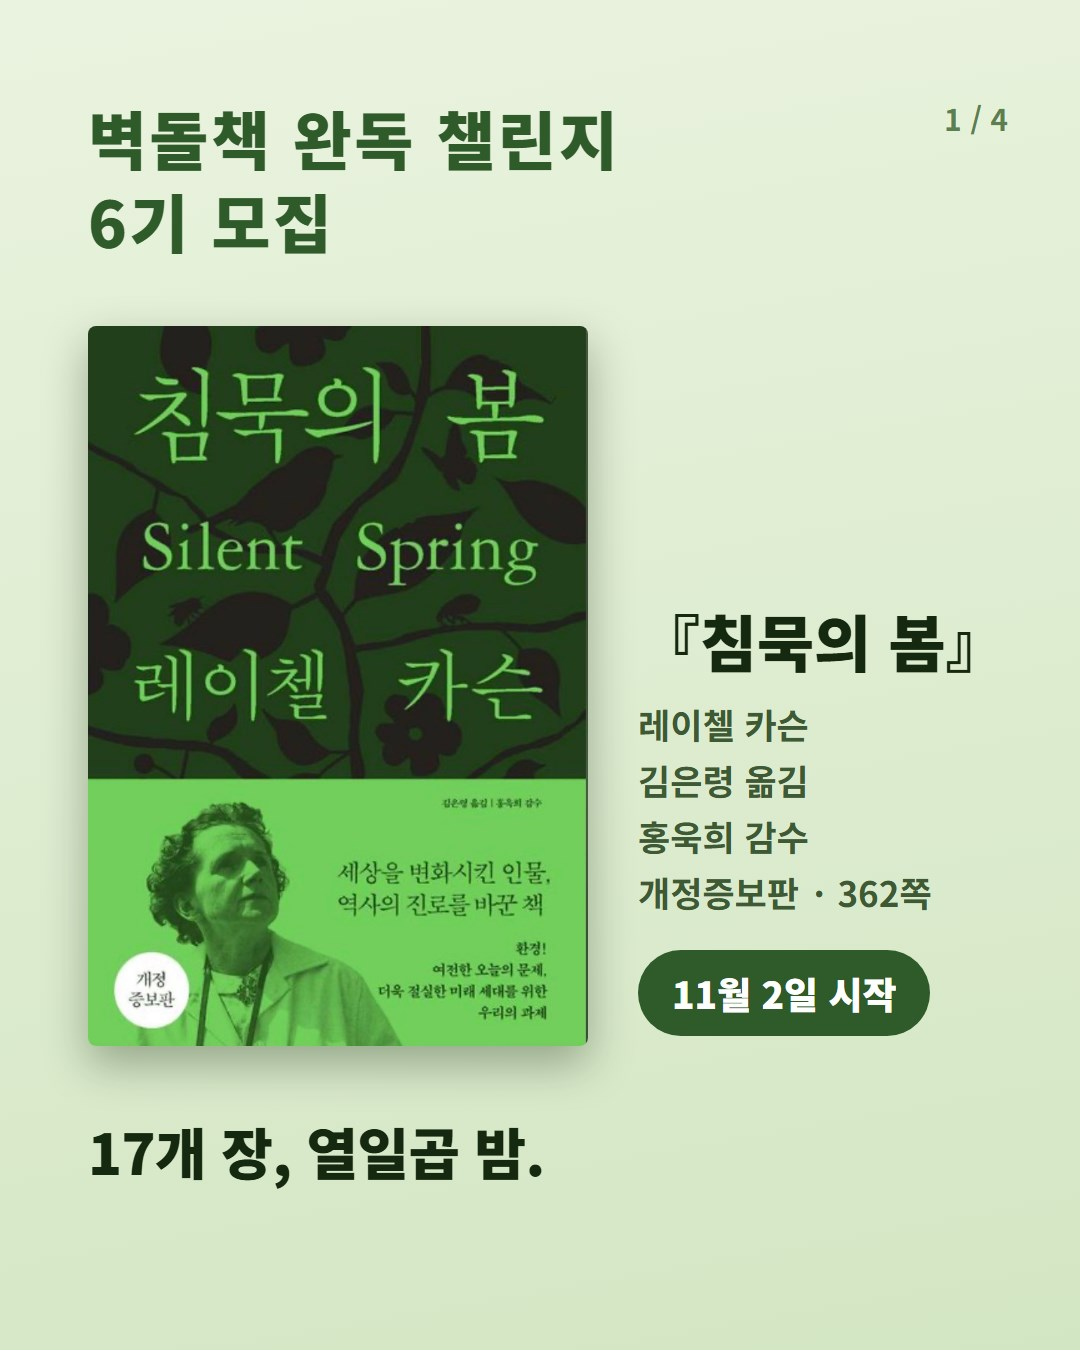
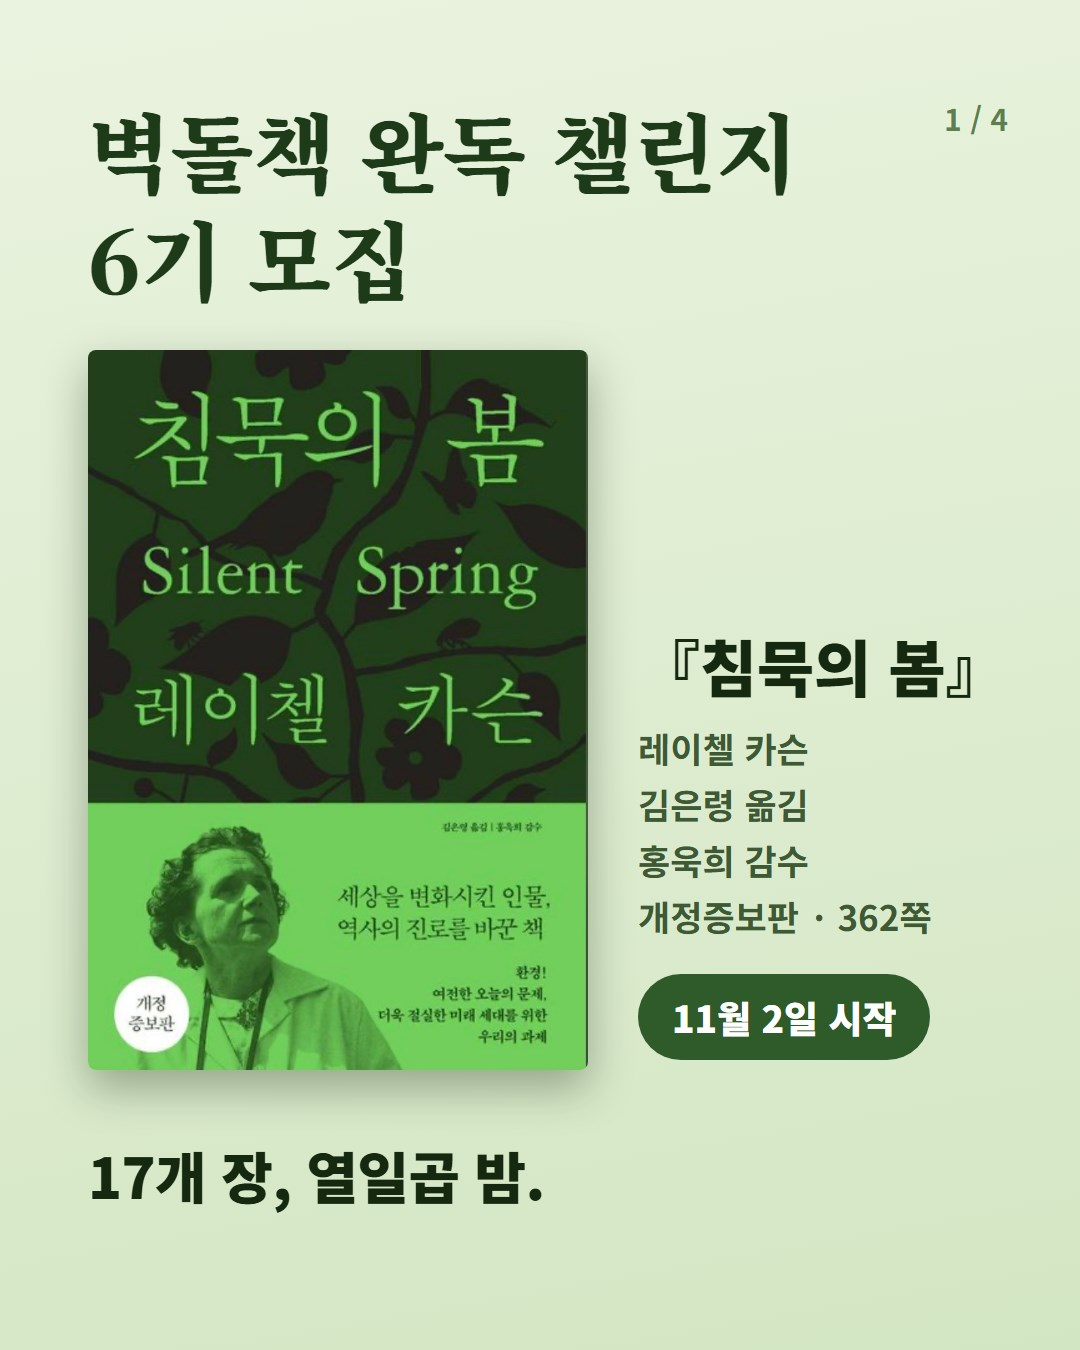
silent-spring — 맨 아래 단추를 6기 구글 신청서로 · 미리보기 카드 갈아 끼움

Changed region(s): [[0.0611, 0.0622, 0.7333, 0.8089], [0.5806, 0.4356, 0.9167, 0.8089], [0.0917, 0.84, 0.4889, 0.9022]]

diff --git a/silent-spring/index.html b/silent-spring/index.html
@@ -193,7 +193,7 @@ table.pay tr.top td{background:#fbf3e2;}
 <tr><th>정원</th><td><b>8명</b></td></tr>
 <tr><th>참가비</th><td><b>무료</b> &nbsp;·&nbsp; <b>책은 본인 부담</b></td></tr>
 <tr><th>함께 읽는 법</th><td><b>장마다 본문 발췌 + 생각 쓰기</b> → 단톡방에 올리기<br><span class="note" style="margin:0;">생각을 못 붙인 날은 발췌만 올려도 그 장은 읽은 것으로 봅니다</span></td></tr>
-<tr><th>신청 방법</th><td><b>인스타그램 DM</b>(@daily_writing_365) 또는 <b>네이버 블로그 댓글</b></td></tr>
+<tr><th>신청 방법</th><td><b>아래 「신청서 작성하기」 단추</b>를 누르면 신청서가 열립니다<br><span class="note" style="margin:0;">인스타그램 DM(@daily_writing_365)이나 네이버 블로그 댓글로 연락 주셔도 됩니다</span></td></tr>
 <tr><th>모집 마감</th><td><b>선착순</b></td></tr>
 </table></div>
 
@@ -244,8 +244,8 @@ table.pay tr.top td{background:#fbf3e2;}
 
 <div class="cta">
   <div class="t">11월 2일 월요일 아침,<br>1장부터 함께 폅니다.</div>
-  <div class="s">하루 한 장 · 주 5일 · 열일곱 밤 · <b>정원 여덟 분</b><br>참가비 무료 — 책만 준비해 주세요<br>모집 마감 <b>선착순</b> · 인스타그램 DM(@daily_writing_365) 또는 네이버 블로그 댓글</div>
-  <a class="btn" href="https://ig.me/m/daily_writing_365" style="text-decoration:none;">인스타그램 DM으로 신청하기 →</a>
+  <div class="s">하루 한 장 · 주 5일 · 열일곱 밤 · <b>정원 여덟 분</b><br>참가비 무료 — 책만 준비해 주세요<br>모집 마감 <b>선착순</b></div>
+  <a class="btn" href="https://docs.google.com/forms/d/e/1FAIpQLSehcWLZATwROUqF_tTQL88NiC36aELv1uPmA9X4ftccZWcUXg/viewform" style="text-decoration:none;">신청서 작성하기 →</a>
 </div>
 
 <footer>
